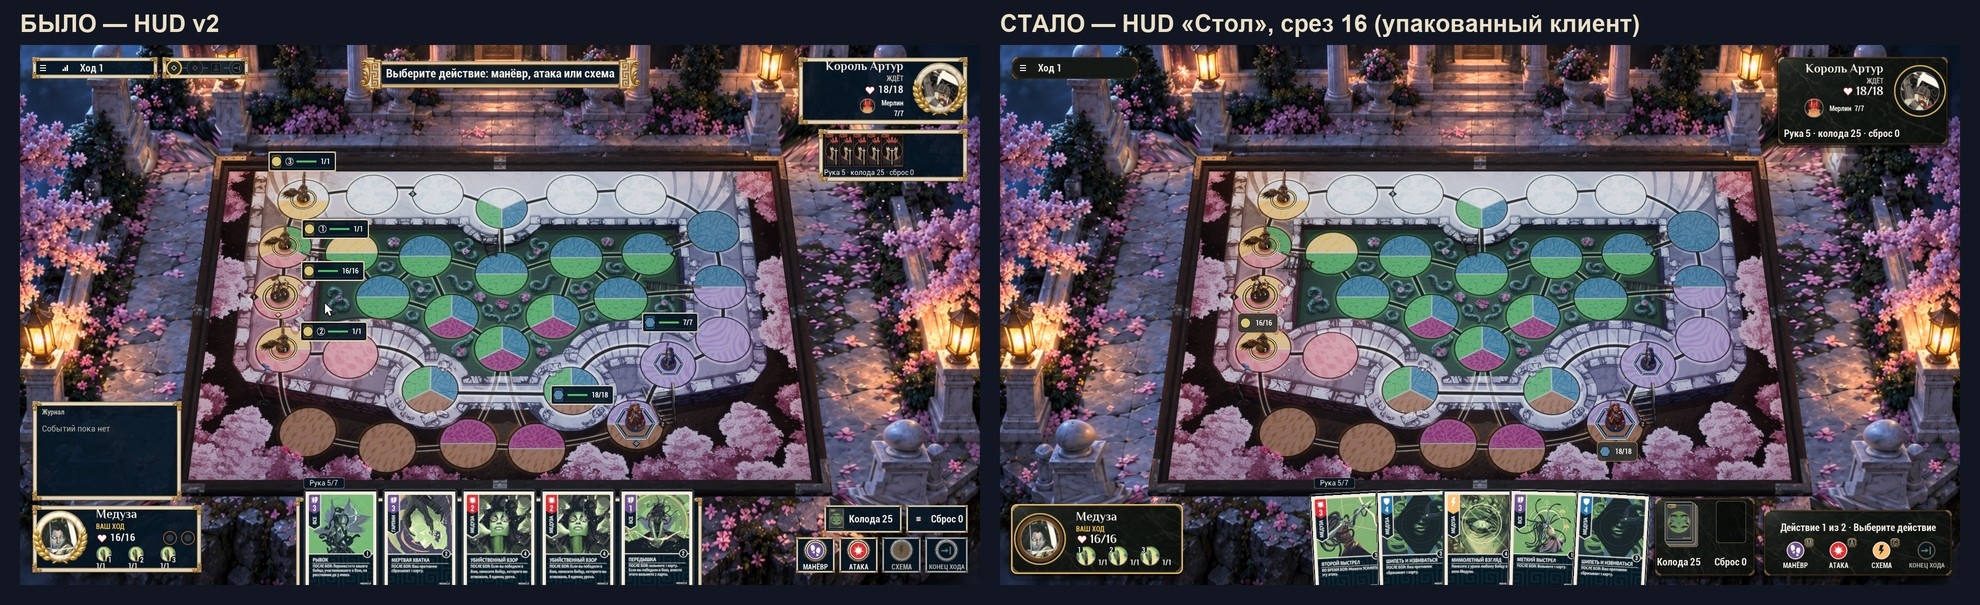
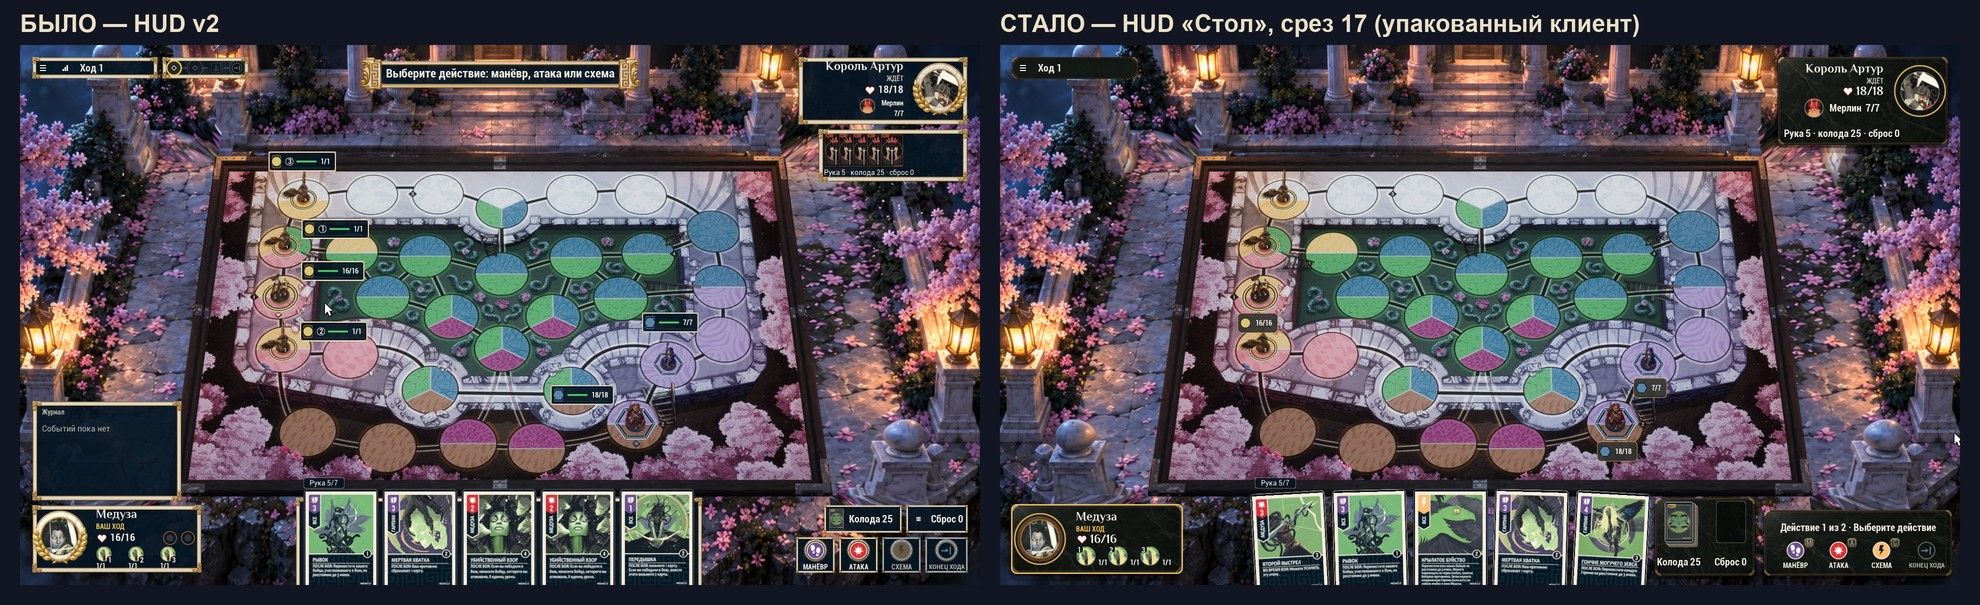
docs(hud): slice 17 pass and its blind review (Astra xhigh 7.50 vs 6.17, Opus max 7.25 vs 5.33)

diff --git a/docs/game-design/hud-redesign/blind-s17/REVIEW-ASTRA-XHIGH.md b/docs/game-design/hud-redesign/blind-s17/REVIEW-ASTRA-XHIGH.md
@@ -1,0 +1,23 @@
+| Критерий · 10 = лучше | A | B |
+|---|---:|---:|
+| Цельность визуального языка | 8 | 7 |
+| Ощущение премиальной настольной адаптации | 7 | 6 |
+| Отсутствие лишних иконок и визуального шума | 8 | 5 |
+| Компоновка и порядок чтения | 7 | 6 |
+| Читаемость при 1080p | 7 | 7 |
+| Премиальное впечатление | 8 | 6 |
+| **Среднее, равные веса** | **7,50** | **6,17** |
+
+**Побеждает A: +1,33 балла.** HUD спокойнее, лучше оставляет поле главным объектом и убедительнее вписывается в окружение. У B последовательная сине-золотая палитра, но почти каждый блок требует внимания своей рамкой. Лавры, завитки, полосы здоровья и дополнительная верхняя панель вместе создают впечатление перегруженного игрового шаблона. Позолота сама по себе премиальности не добавляет.
+
+Читаемость — ничья: A свободнее дышит, B отчётливее показывает кнопки и состояние отдельных фигур. Обе версии теряют читаемость на картах.
+
+**Пять главных проблем A:**
+
+1. **Низ по центру — рука.** Названия мелкие, текст эффектов практически не читается, карты обрезаны экраном. Обеспечить читаемые названия и значения в обычном состоянии; при наведении или выборе раскрывать карту целиком крупным планом. Наличие такого поведения по скриншоту проверить нельзя.
+2. **Правый нижний угол — действия.** Заголовок заметнее самих команд; маленькие круглые значки воспринимаются скорее как индикаторы. Дать трём действиям отчётливые кнопочные поверхности и более крупные подписи; завершение хода отделить небольшим промежутком.
+3. **Поле — здоровье и номера фигур.** Плашки HP оторваны от оснований, номера гарпий теряются на миниатюрах. Привязать компактные метки к одинаковой точке относительно основания; номера вынести на контрастные жетоны. Постоянные полосы здоровья для каждой гарпии здесь избыточны.
+4. **Верх справа и низ слева — панели игроков.** Имя, статус, здоровье и помощники организованы по-разному, поэтому сравнение требует повторного поиска. Использовать зеркальный шаблон с одинаковой последовательностью и размерами показателей.
+5. **Низ справа от руки — колода и сброс.** Большая почти пустая панель расходует место; пустой слот визуально слабо объяснён. Сделать два компактных подписанных места для стопок, расположить счётчики одинаково, пустой сброс обозначить приглушённым силуэтом карты.
+
+**Что сохранить из B:** отчётливое разделение кнопок действий, хорошо различимые номера отдельных бойцов и наглядное представление руки соперника рубашками карт. Журнал тоже полезен, но пустое состояние лучше сворачивать в компактную кнопку.

diff --git a/docs/game-design/hud-redesign/08-BLIND-FINAL.md b/docs/game-design/hud-redesign/08-BLIND-FINAL.md
@@ -220,3 +220,36 @@ Opus +1,5 против +1,9, у Astra +1,17 против +1,5. Оценки чи
    (1/1) не показывать.
 4. **Иерархия панели соперника.** Строка помощника слабее портрета. Сетку выровнять с панелью игрока.
 5. **Объём и материал плит.** Нужны скос и внутренний световой кант.
+
+## Проход по общим замечаниям среза 16 — срез 17 (2026-10-16, 8676de81)
+
+Задание пользователя: «Сделай проход по совпадающим замечаниям среза 16 (значки v3 не трогай)».
+
+| Замечание (общее у Astra и Opus) | Что сделано |
+|---|---|
+| Перекрытие руки срезает круги усиления и текст | Карты снова идут с полным шагом, без перекрытия. Веер появляется, только если ряд не помещается. Ряд центрируется по оси экрана, насколько позволяет свободное место. |
+| У Мерлина нет HP на поле | Компактный чип показывается над каждым бойцом с HP больше 1, в том числе у Мерлина («7/7» у подставки). Гарпиям 1/1 чип показывается только при фокусе. |
+| Строка помощника слабее портрета | «Мерлин 7/7» набран кеглем кнопок, как HP героя. |
+| Плиты плоские | Внутри каждой плиты, в 4 su от края, — слабый тёплый световой кант. |
+
+Значки v3 не менялись. Тесты Unmatched.S08 — 397/397. Проверено вживую на 1920×1080, 1280×720, 1440×1080 (класс S),
+2560×1080 и при наведении на карту. Кадр для сравнения снят с упакованного клиента.
+
+### Слепое сравнение среза 17 (`blind-s17/`; новый HUD — A)
+
+| Рецензент | HUD v2 | «Стол» | Разница | Срез 16 | Срез 15 |
+|---|---:|---:|---:|---:|---:|
+| GPT Astra xhigh | 6,17 | **7,50** | +1,33 | +1,83 | +1,2 |
+| Opus max | 5,33 | **7,25** | +1,92 | +1,9 | +2,0 |
+
+У обоих рецензентов это самая высокая оценка нового HUD за все прогоны. Opus снова отдал новому HUD и читаемость
+(7,5 против 6,0). Разница со старым HUD держится в пределах шума, а абсолютная оценка растёт: 6,75 → 7,0 → 7,25 у Opus
+и 7,0 → 7,17 → 7,5 у Astra.
+
+Совпадающие замечания этого прогона:
+1. **Рука.** Текст правил в покое нечитаем. Opus: центр руки всё ещё на 60 px левее оси экрана.
+2. **Панель действий.** Это значки v3 — решает пользователь.
+3. **Чипы HP на поле.** Заходят на соседние клетки, цифры мелкие.
+4. **Панели игроков.** Нужна зеркальная сетка. Портреты — сырые вырезки арта: для исправления нужны новые
+   портретные кадры, это новый арт.
+5. **Колода и сброс.** Блок занимает много места.

diff --git a/docs/game-design/hud-redesign/blind-s17/REVIEW-OPUS-MAX.md b/docs/game-design/hud-redesign/blind-s17/REVIEW-OPUS-MAX.md
@@ -1,0 +1,37 @@
+# Слепое сравнение, срез 17 — Opus max (2026-10-16)
+
+**A** — HUD «Стол», срез 17 (упакованный клиент). **B** — HUD v2. Какой кадр новый, рецензенту не сообщалось.
+
+| Критерий | A | B |
+|---|---|---|
+| Единство материала | 7,5 | 6,5 |
+| Премиальная настолка / MTG Arena | 6,5 | 5,0 |
+| Захламлённость значками (10 — ничего лишнего) | 8,0 | 4,0 |
+| Компоновка, порядок чтения | 7,0 | 5,5 |
+| Читаемость на 1080p | 7,5 | 6,0 |
+| Дёшево или премиально | 7,0 | 5,0 |
+| **Среднее** | **7,25** | **5,33** |
+
+**Вердикт:** A лучше примерно на 1,9 балла и выигрывает по всем шести критериям, включая читаемость (+1,5).
+
+## Пять главных проблем A
+
+1. **Сигнал «ваш ход, что делать» спрятан в угол.**
+   *Исправление:* вкладка по центру над рукой: «Ваш ход · действие 1 из 2 · рука 5/7».
+2. **Нижняя полоса не собрана.** Центр руки около x 900, это на 60 px левее оси; верхние кромки блоков на разной высоте.
+   *Исправление:* общая сетка, колоду встроить в модуль действий.
+3. **Портреты — сырые вырезки арта, оправы разные.**
+   *Исправление:* отдельные портретные кадры, одна оправа, ход отмечать свечением.
+4. **Плашки HP на поле:** заходят на соседние клетки, цифры около 11 px.
+   *Исправление:* «диск здоровья» у края подставки, цифры 15–16 px.
+5. **Текст карт в покое нечитаем.**
+   *Исправление:* наклон не больше 1,5°, превью ×2 при наведении.
+
+## Что взять из B
+
+- руку ровно по оси;
+- крупную подсказку, компактно у руки и с учётом контекста;
+- рубашки руки соперника;
+- одинаковую оправу портретов;
+- явное состояние кнопок (это значки v3 — решает пользователь);
+- журнал свёрнутым.

diff --git a/docs/game-design/hud-redesign/blind-s17/PROMPT.md b/docs/game-design/hud-redesign/blind-s17/PROMPT.md
@@ -1,0 +1,21 @@
+You are a senior game UI art director (references: MTG Arena, Hearthstone, Legends of Runeterra, Unmatched Digital
+Edition, premium digital adaptations of physical tabletop games).
+
+Two screenshots of the SAME digital board game (Unmatched, a 1v1 miniatures game; board Marmoreal) at 1920x1080,
+turn 1, show two different HUD versions: A.jpg and B.jpg (both attached / in this folder). You do NOT know which is
+older or newer; do not guess, judge only what you see. Be adversarial and honest; do not favour either.
+
+Score each HUD 1-10 on:
+1. visual cohesion / one material language
+2. resemblance to a premium physical tabletop / MTG Arena tier product
+3. icon clutter (10 = nothing superfluous)
+4. layout clarity / where to look, reading order
+5. readability (text sizes, contrast, at 1080p)
+6. cheap/childish vs premium impression
+
+Then:
+- which HUD is better overall and by how much (averages);
+- the 5 biggest remaining problems of the BETTER one, each located on screen (region + element) with a concrete fix;
+- anything the worse one does better that should be kept.
+
+Answer in Russian, compact: score table with averages, verdict, problem list. Do not modify any files.
